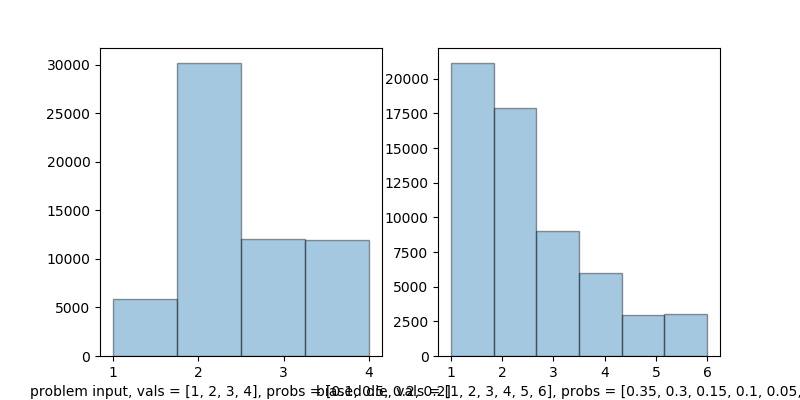
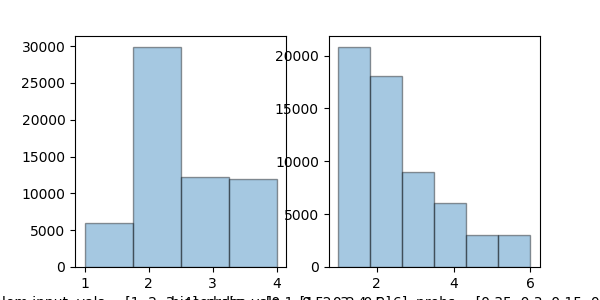
solved problem #152 from daily coding problem. reduced figure size again

diff --git a/random_variable.py b/random_variable.py
@@ -81,7 +81,7 @@ if __name__ == "__main__":
     # seconds to run due to the importing of seaborn and matplotlib
     n = 60000
     # make a figure with multiple subplots
-    fig, axs = plt.subplots(nrows = 1, ncols = 2, figsize = (8, 4))
+    fig, axs = plt.subplots(nrows = 1, ncols = 2, figsize = (6, 3))
     # problem input
     vals, probs = [1, 2, 3, 4], [0.1, 0.5, 0.2, 0.2]
     drv = discrete_rv(vals = vals, probs = probs)
